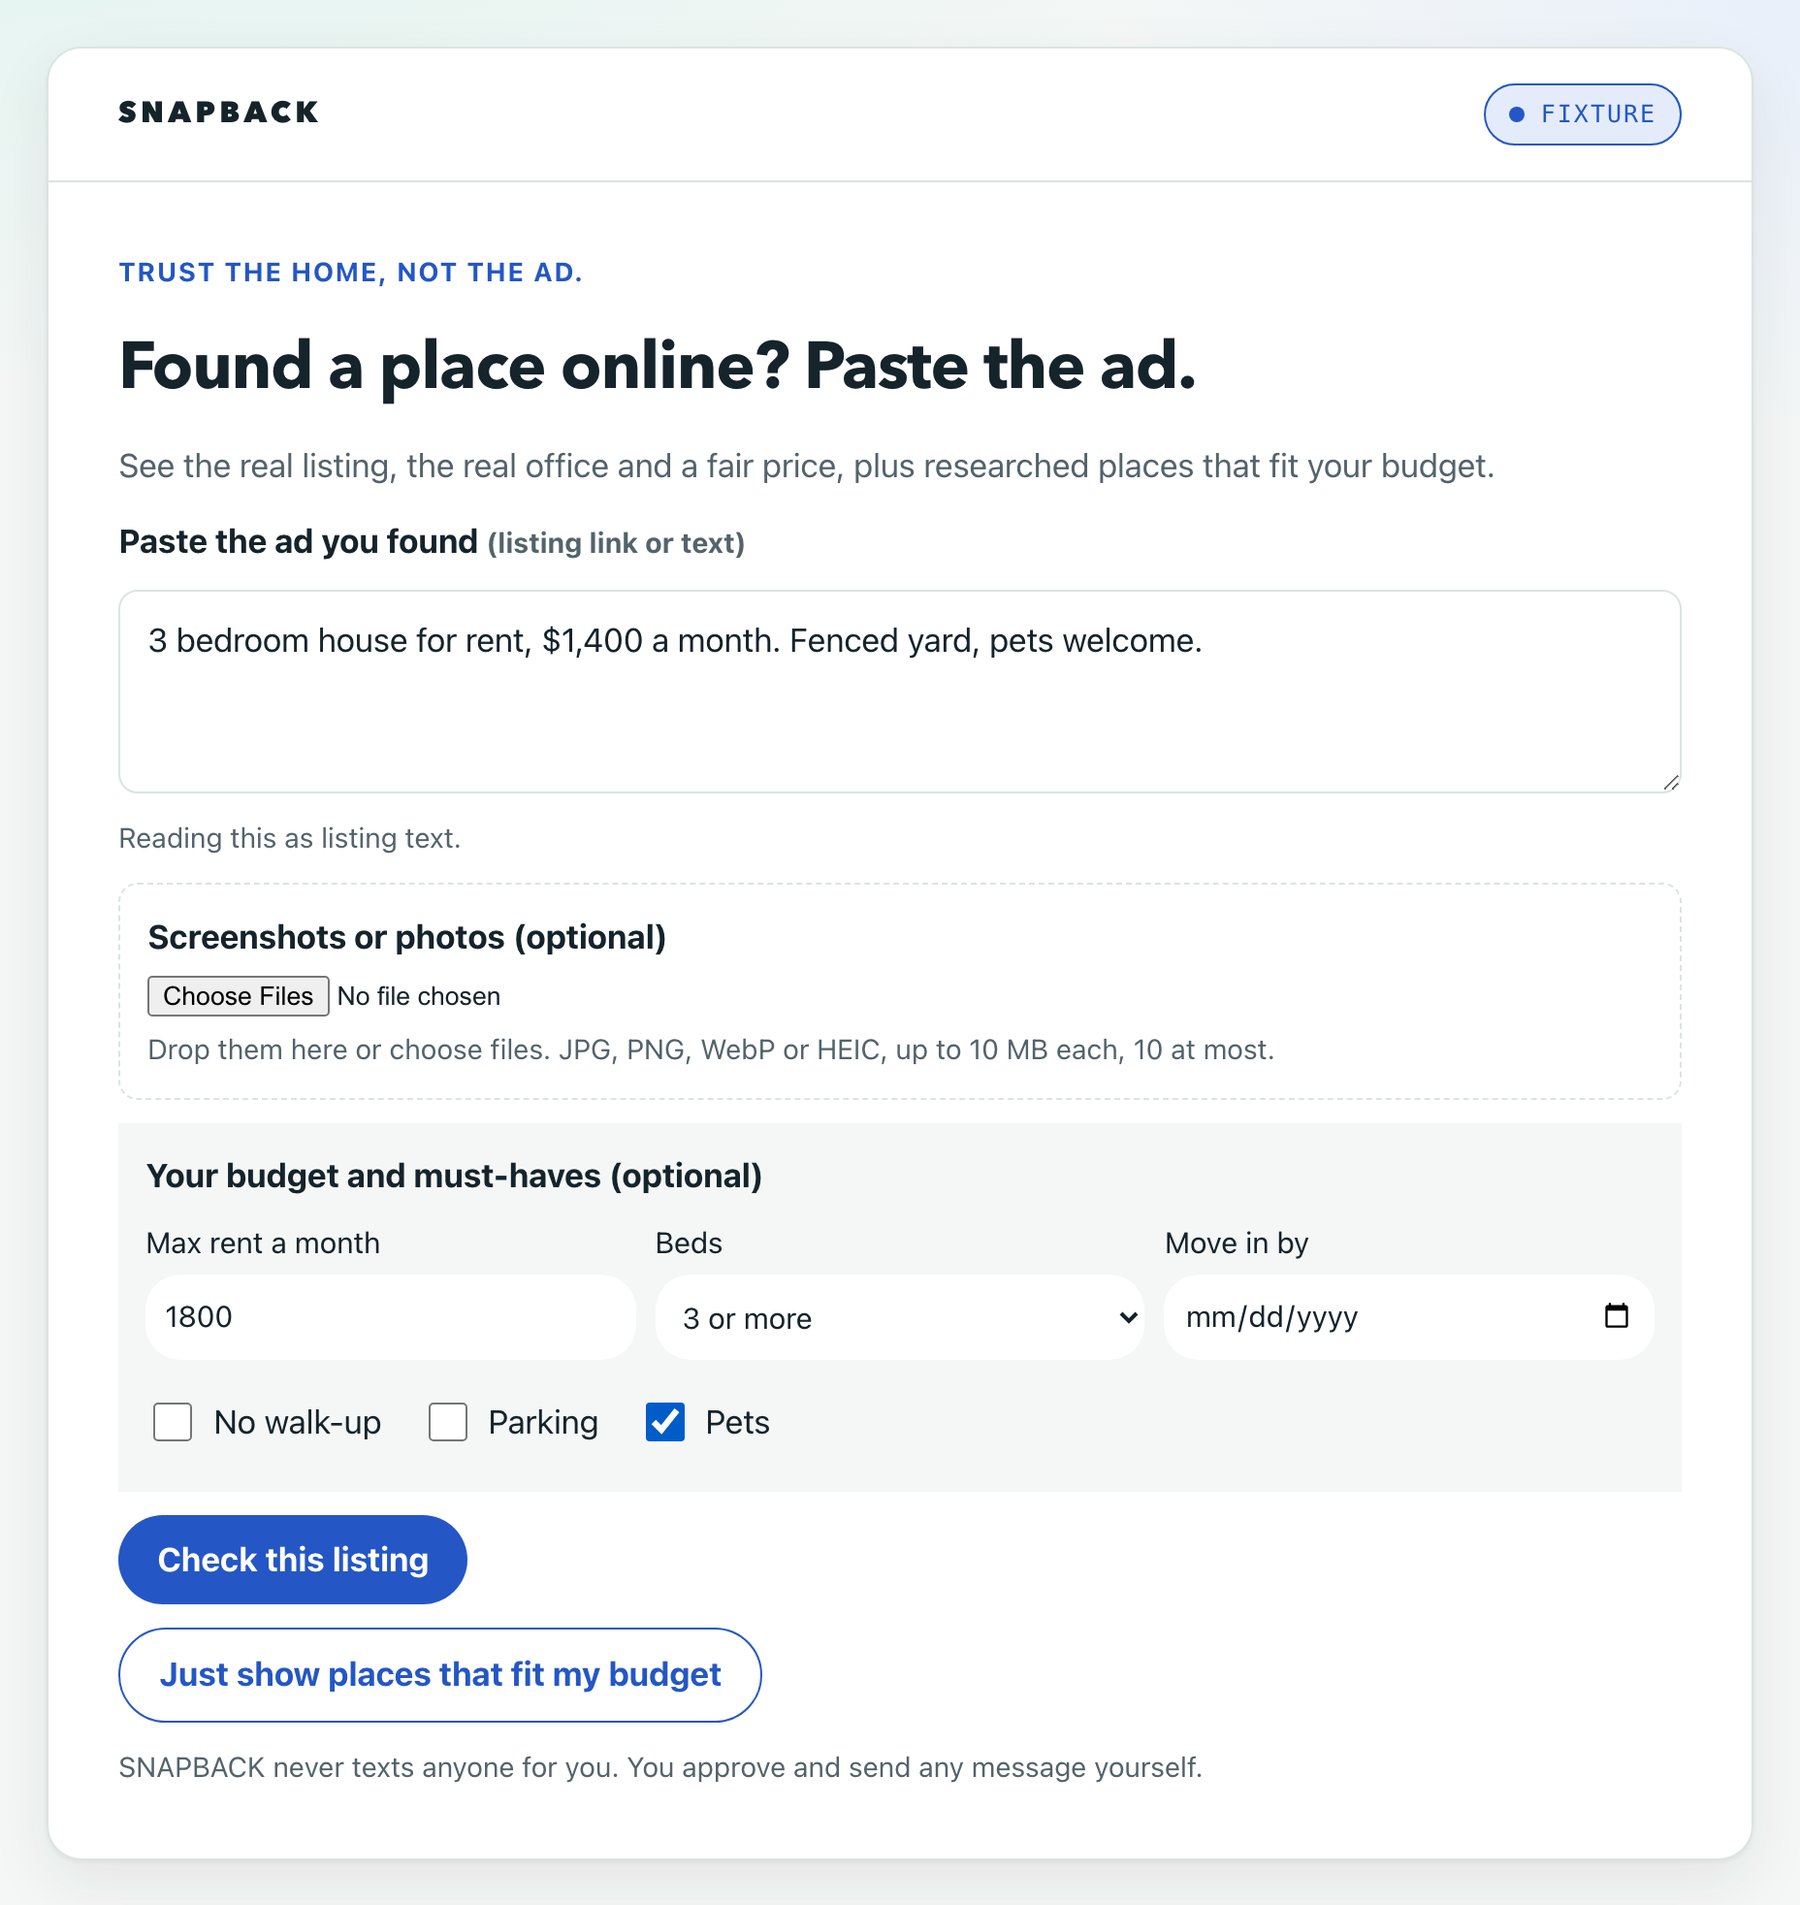
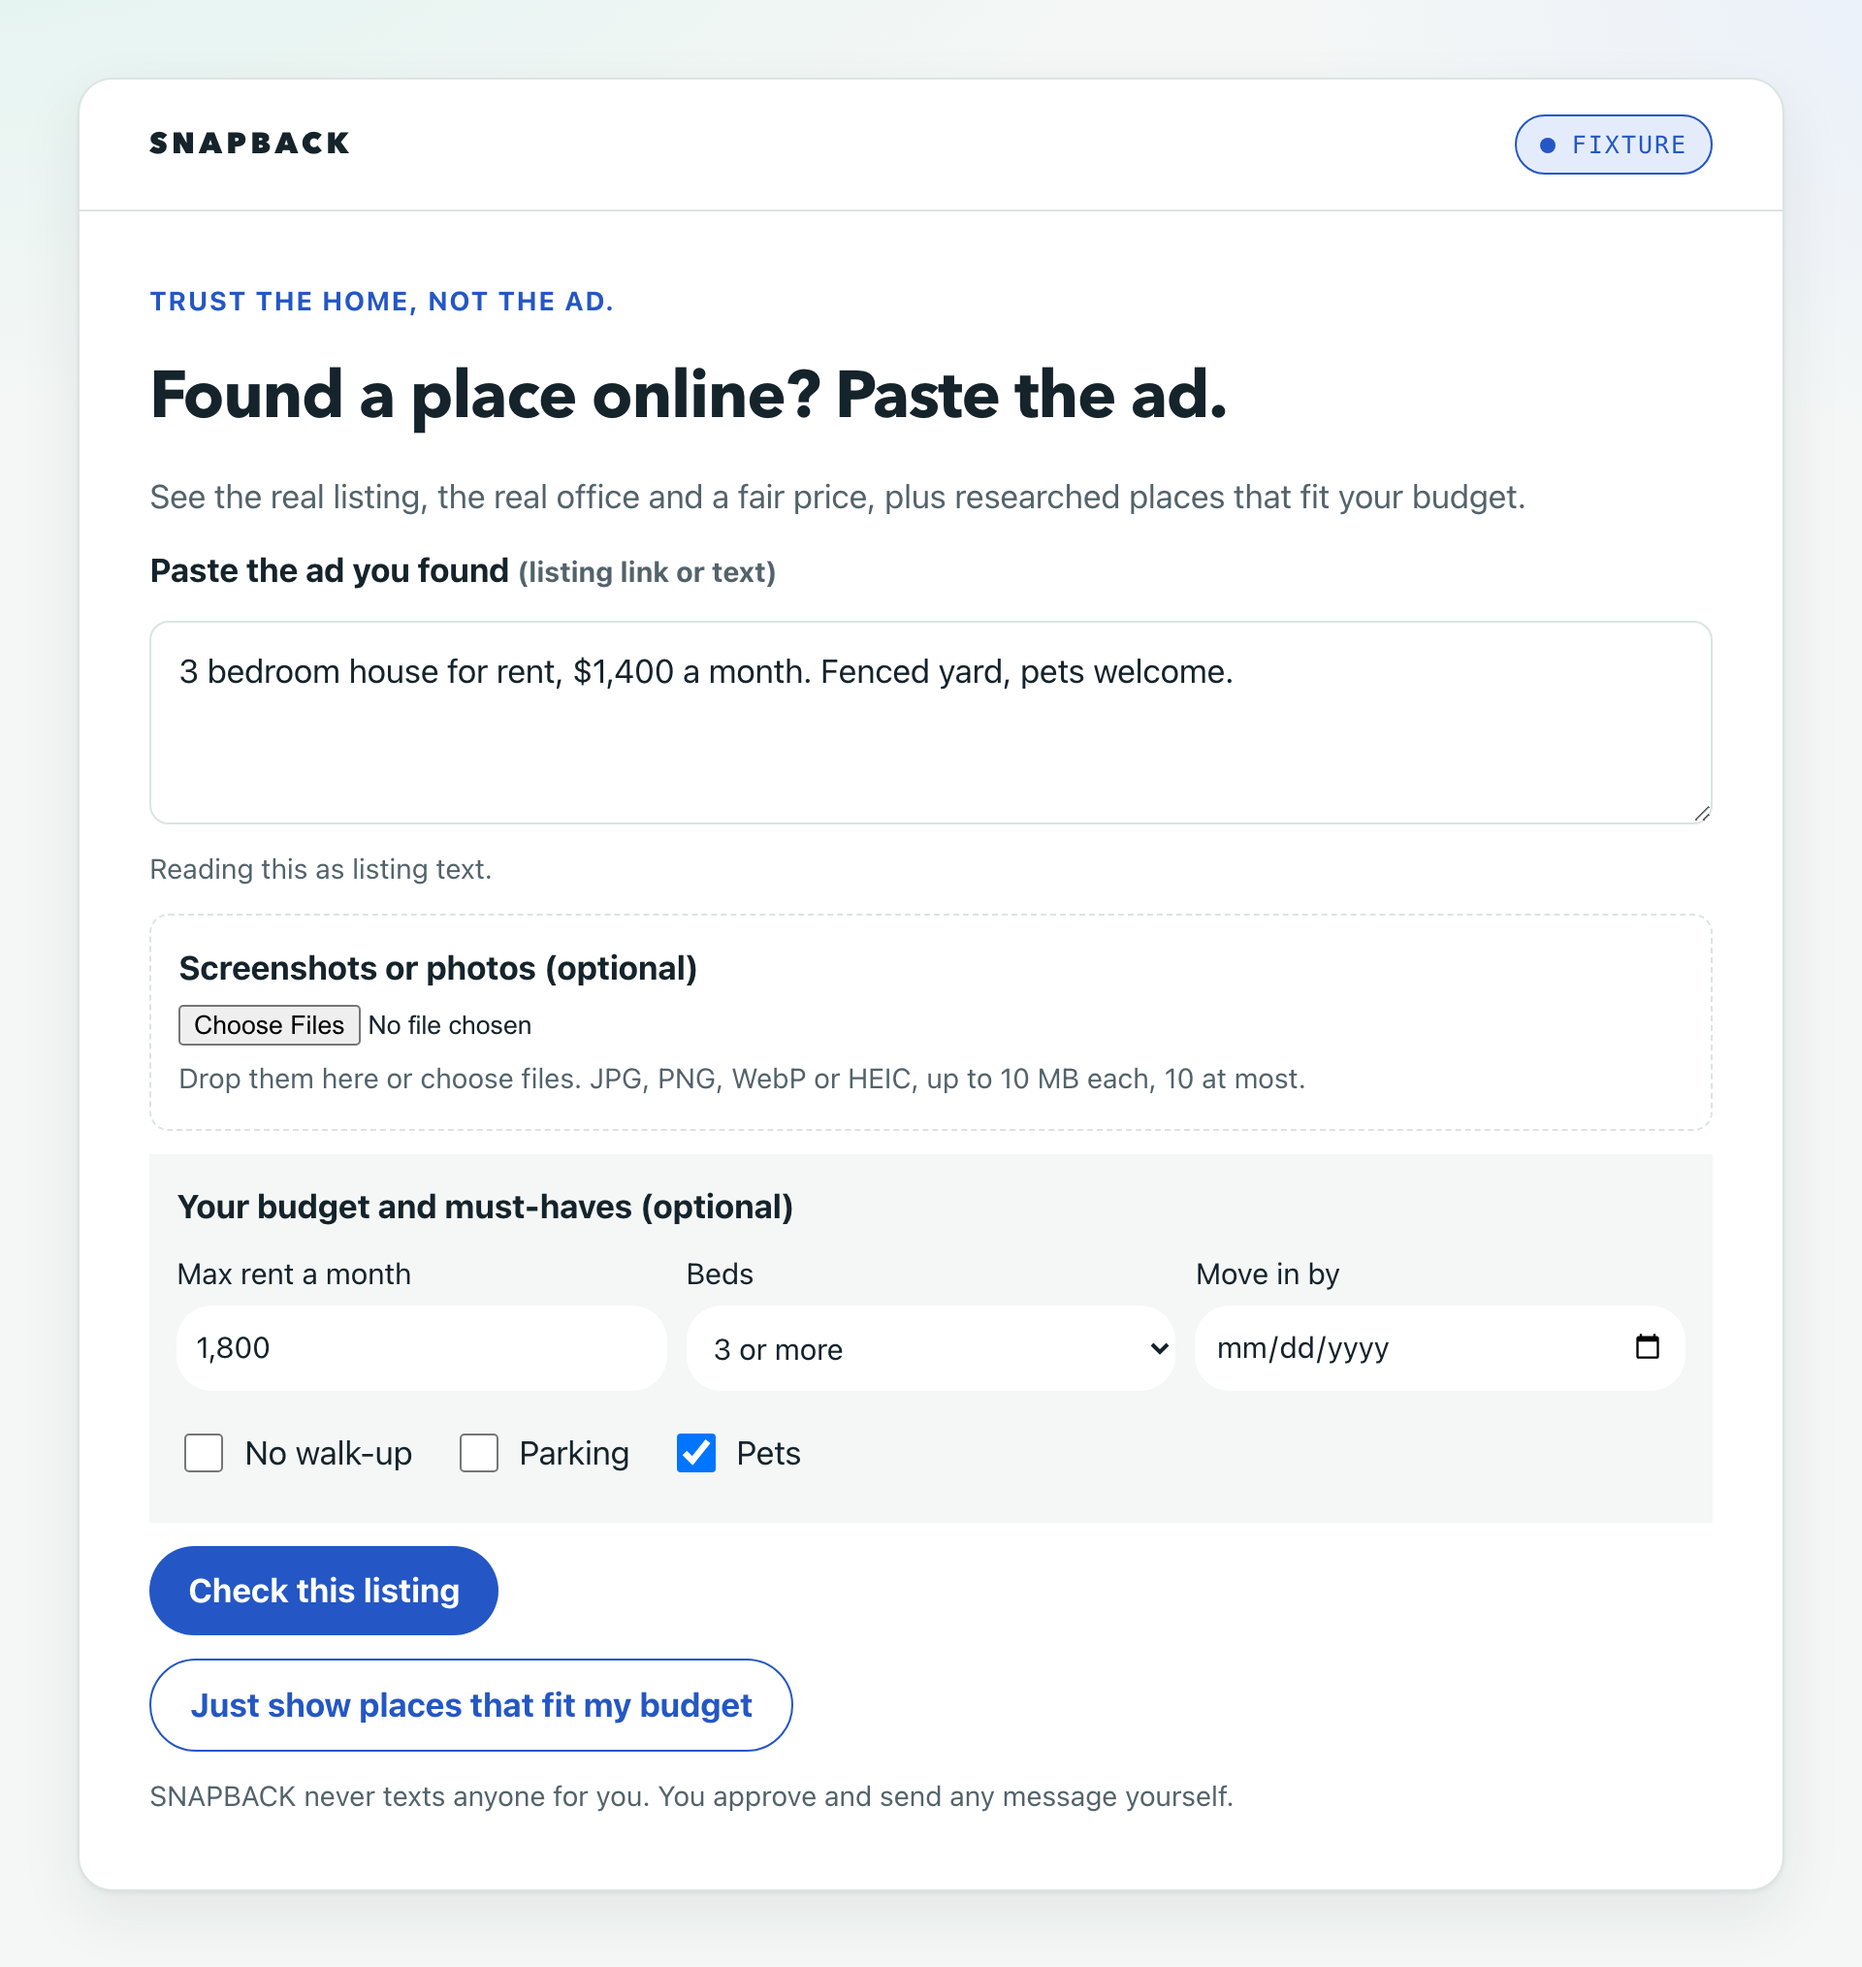
docs: README hero is the paste-the-ad first screen; Don't pay card moves to the gallery

diff --git a/README.md b/README.md
@@ -14,10 +14,10 @@ researched places that fit your budget.
 [About](#about) · [How it works](#how-it-works) · [Screenshots](#screenshots) ·
 [Quickstart](#quickstart) · [Limits and status](#limits-and-status)
 
-<img src="docs/images/verdict-dont-pay.png" width="760" alt="A result card that reads 'Don't pay. Something here doesn't match.' Each row names a check, what it found and a status chip: one listing photo was taken in a different building, the unit is not on the building's record, the link imitates the building's website, and the rent is 44% under the lowest 2 bed on record. A FIXTURE badge sits in the corner." />
+<img src="docs/images/paste-the-ad.png" width="760" alt="The first screen. The eyebrow reads 'Trust the home, not the ad.' and the heading 'Found a place online? Paste the ad.' The sub-head reads 'See the real listing, the real office and a fair price, plus researched places that fit your budget.' A short house ad is pasted in the box, the max rent is 1,800, beds is set to 3 or more and Pets is ticked, above the 'Check this listing' button. A FIXTURE badge sits in the corner." />
 
-<sub>A finished card for a staged ad: one photo was taken in a different building, so the verdict
-is Don't pay. Fixture data made by the team.</sub>
+<sub>The first screen: paste the ad you found. Budget and must-haves are optional. Fixture data
+made by the team.</sub>
 
 </div>
 
@@ -100,12 +100,12 @@ scammer. Cards come as a web page and as a PNG with a verify link.
 
 <table>
   <tr>
-    <td width="40%" valign="top"><img src="docs/images/paste-the-ad.png" alt="The first screen. The eyebrow reads 'Trust the home, not the ad.' and the heading 'Found a place online? Paste the ad.' A short house ad is pasted in the box, the max rent is 1800, beds is set to 3 or more and Pets is ticked, above the 'Check this listing' button." /></td>
+    <td width="40%" valign="top"><img src="docs/images/verdict-dont-pay.png" alt="A result card that reads 'Don't pay. Something here doesn't match.' Each row names a check, what it found and a status chip: one listing photo was taken in a different building, the unit is not on the building's record, the link imitates the building's website, and the rent is 44% under the lowest 2 bed on record. A FIXTURE badge sits in the corner." /></td>
     <td width="38%" valign="top"><img src="docs/images/places-tour-draft.png" alt="The 'Researched places that fit your budget' strip. A 1 bed, 1 bath floor plan at $1,100 to $1,250 a month as of CoStar's last research, with walk-up, utilities, parking and pet lines, a '3D scan in this building' tag, the leasing office on record, and an open tour-request draft addressed to that office with a Copy button." /></td>
     <td width="22%" valign="top"><img src="docs/images/phone-verdict.png" alt="The Don't pay card for the same staged ad, on a phone, 390 pixels wide, with each check stacked above its status chip." /></td>
   </tr>
   <tr>
-    <td valign="top"><sub>Paste the ad you found. Budget and must-haves are optional.</sub></td>
+    <td valign="top"><sub>A finished card for a staged ad: one photo was taken in a different building, so the verdict is Don't pay.</sub></td>
     <td valign="top"><sub>Researched places that fit the budget (a separate search), and a tour request drafted to the office on record. You copy it and send it yourself.</sub></td>
     <td valign="top"><sub>The card on a phone.</sub></td>
   </tr>
